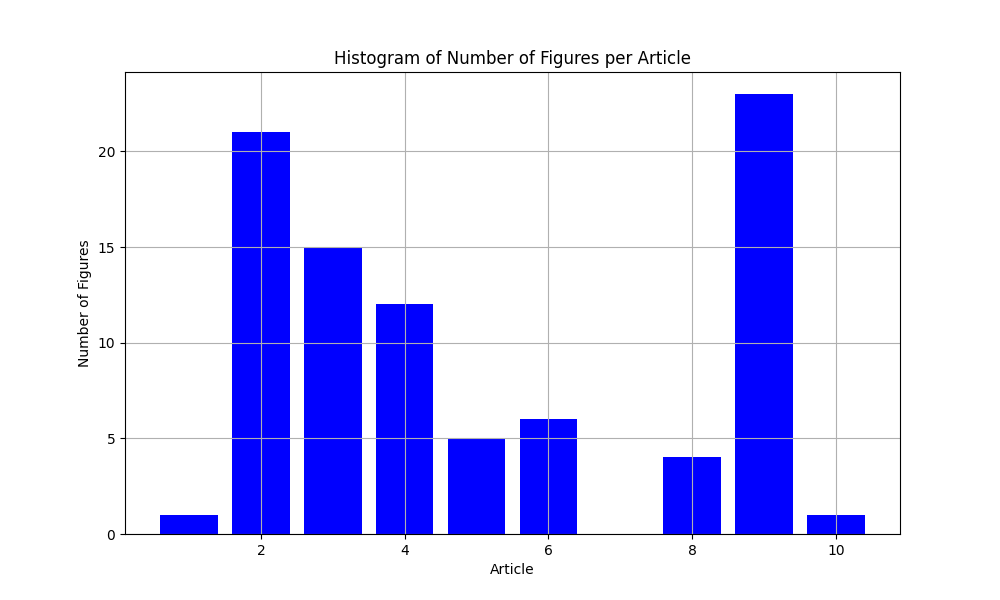
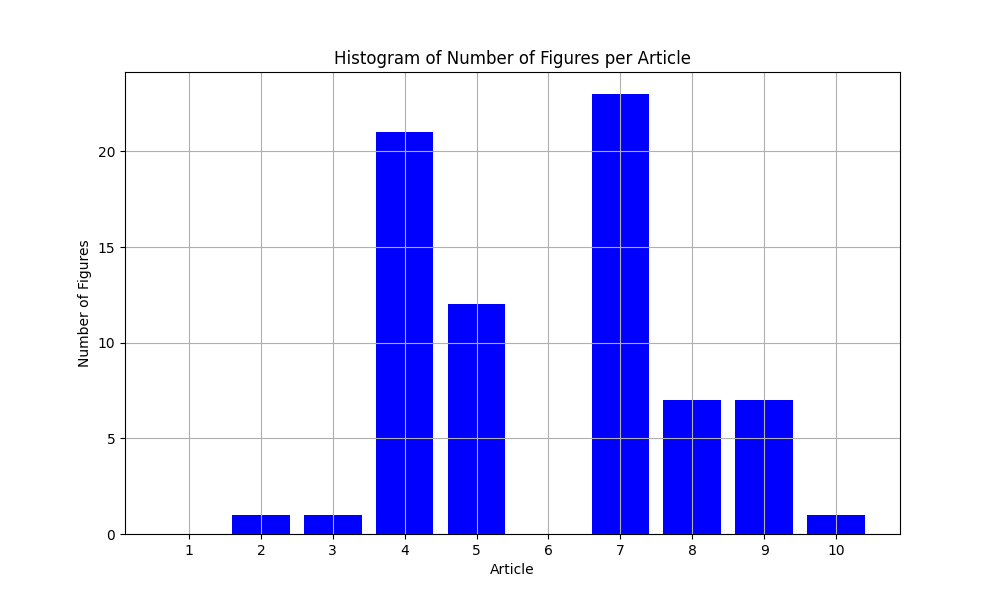
v2.1

Changed region(s): [[0.434, 0.15, 0.806, 0.9], [0.155, 0.21, 0.434, 0.9]]

diff --git a/text_analysis/figures.py b/text_analysis/figures.py
@@ -32,6 +32,7 @@ def histogram(fig_count, output_path):
     article_indices = list(range(1, len(fig_count) + 1))  # Indices representing the articles
     plt.figure(figsize=(10, 6))
     plt.bar(article_indices, fig_count, color='blue')
+    plt.xticks(article_indices)
     plt.xlabel('Article')
     plt.ylabel('Number of Figures')
     plt.title('Histogram of Number of Figures per Article')

diff --git a/text_analysis/abstract.py b/text_analysis/abstract.py
@@ -21,8 +21,11 @@ def extract_abstract(xml):
     if not xml:
         return None
     else:
-        abstract = xml.find('abstract').text.strip()
-        return abstract
+        abstract = xml.find('abstract')
+        if abstract:
+            return abstract.text.strip()
+        else:
+            return None
 
 
 def process_abstract(abstract):

diff --git a/main.py b/main.py
@@ -50,15 +50,5 @@ def main():
     fig.histogram(count_figures, './results/figures.png')
     
 
-
-
-
-
-
-
-
-
-
-
 if __name__ == "__main__":
     main()

diff --git a/text_analysis/grobid.py b/text_analysis/grobid.py
@@ -1,4 +1,3 @@
-import os
 import requests
 from bs4 import BeautifulSoup
 
